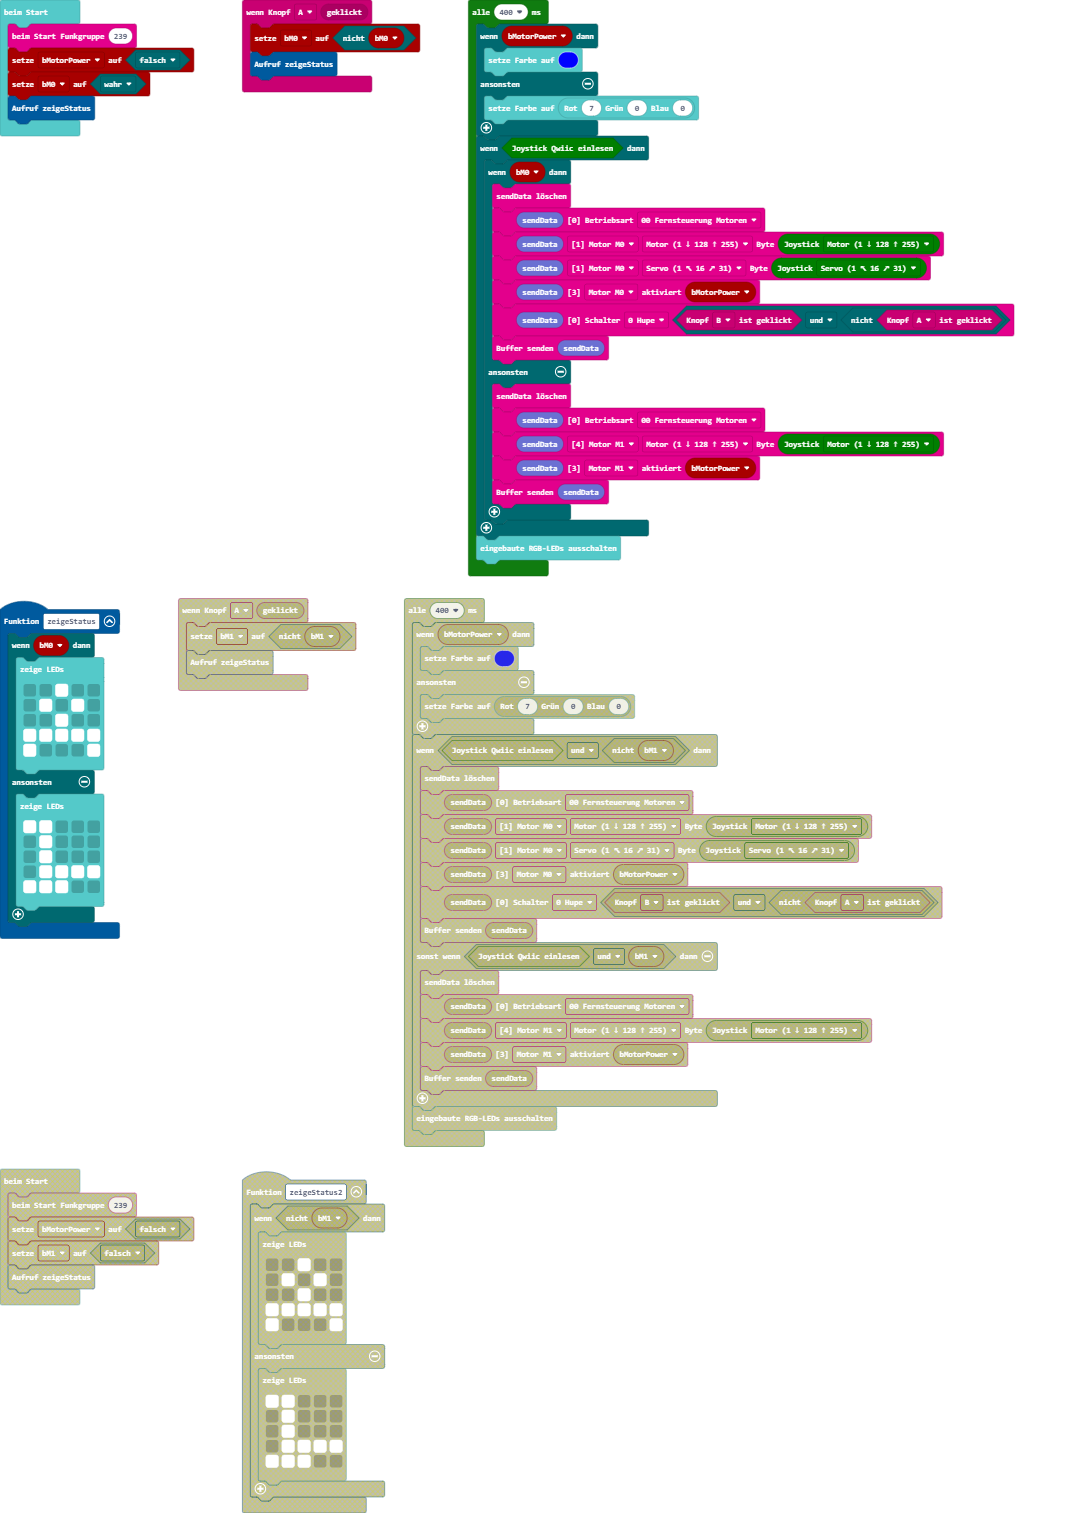
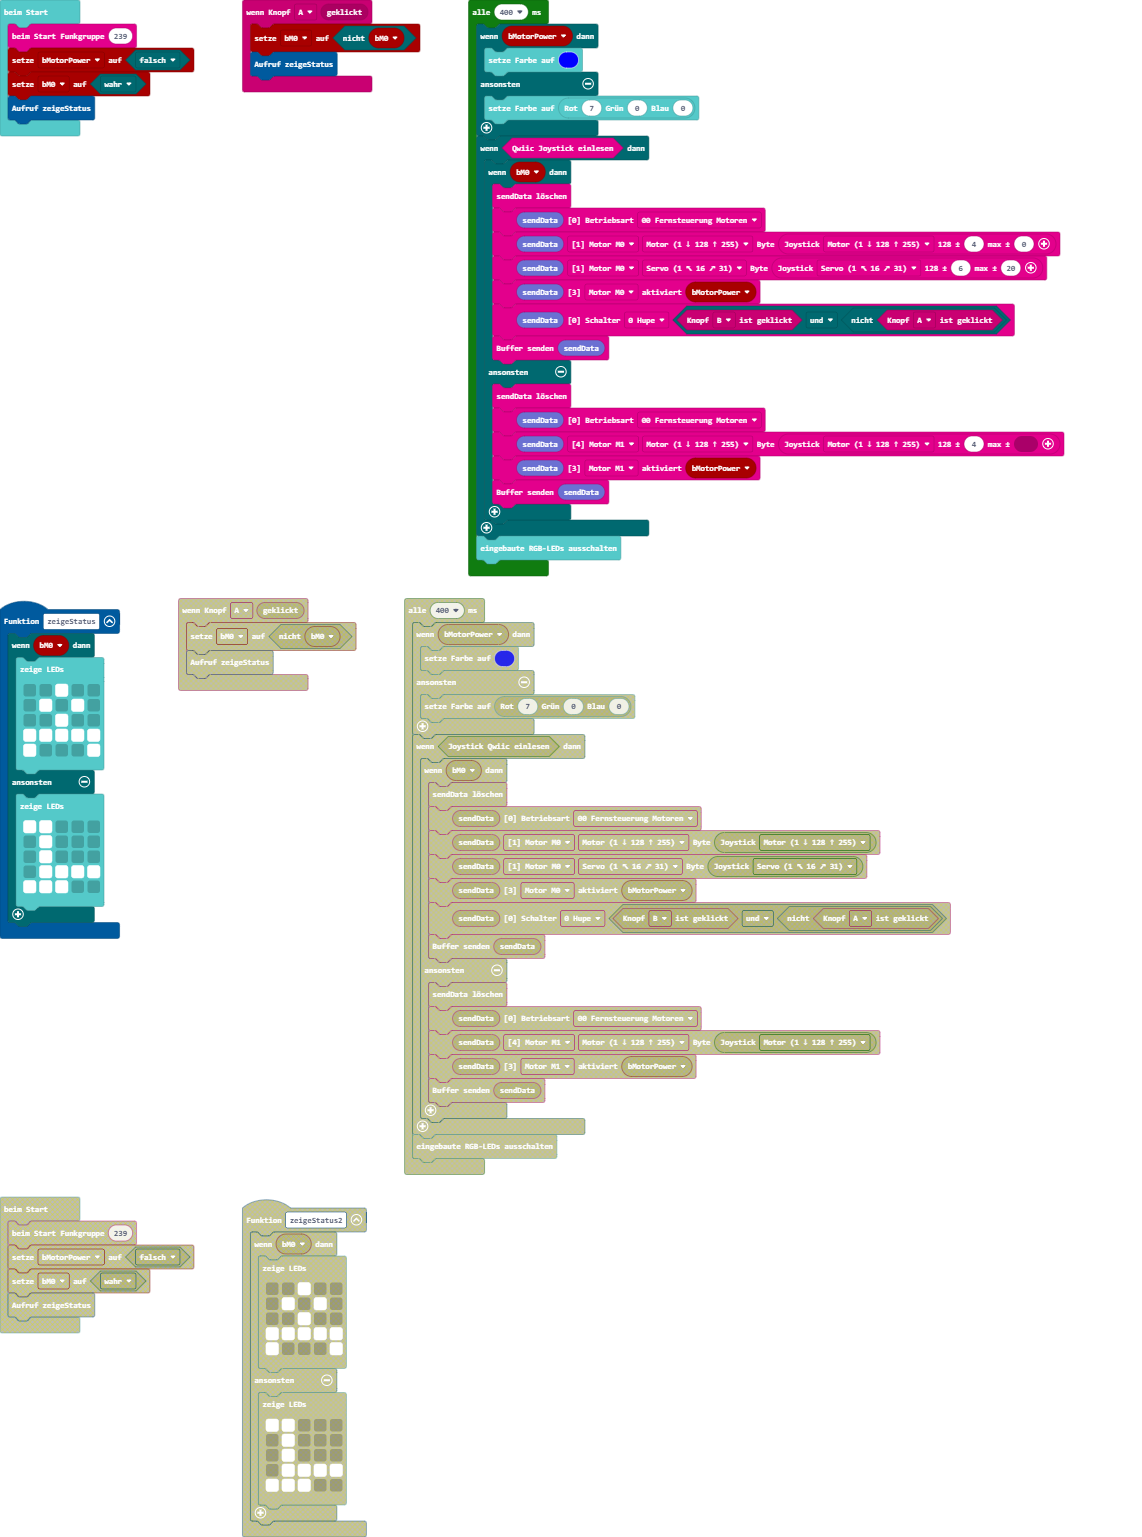
Aktualisiere pxt.json, main.blocks, main.ts

Changed region(s): [[0.0, 0.0, 0.9341, 1.0], [0.0, 0.3728, 0.1245, 0.6213]]

diff --git a/main.ts b/main.ts
@@ -36,19 +36,19 @@ loops.everyInterval(400, function () {
     } else {
         basic.setLedColor(basic.rgb(7, 0, 0))
     }
-    if (radiosender.joystickQwiic()) {
+    if (radio.joystickQwiic()) {
         if (bM0) {
             radio.fill_sendBuffer19()
             radio.setBetriebsart(radio.radio_sendBuffer19(), radio.e0Betriebsart.p0)
-            radio.setByte(radio.radio_sendBuffer19(), radio.eBufferPointer.m0, radio.eBufferOffset.b0_Motor, radiosender.joystickValues(radiosender.eJoystickValue.motor))
-            radio.setByte(radio.radio_sendBuffer19(), radio.eBufferPointer.m0, radio.eBufferOffset.b1_Servo, radiosender.joystickValues(radiosender.eJoystickValue.servo16))
+            radio.setByte(radio.radio_sendBuffer19(), radio.eBufferPointer.m0, radio.eBufferOffset.b0_Motor, radio.joystickValue(radio.eJoystickValue.motor, 4))
+            radio.setByte(radio.radio_sendBuffer19(), radio.eBufferPointer.m0, radio.eBufferOffset.b1_Servo, radio.joystickValue(radio.eJoystickValue.servo16, 6, 20))
             radio.setaktiviert(radio.radio_sendBuffer19(), radio.e3aktiviert.m0, bMotorPower)
             radio.setSchalter(radio.radio_sendBuffer19(), radio.e0Schalter.b0, input.buttonIsPressed(Button.B) && !(input.buttonIsPressed(Button.A)))
             radio.sendData(radio.radio_sendBuffer19())
         } else {
             radio.fill_sendBuffer19()
             radio.setBetriebsart(radio.radio_sendBuffer19(), radio.e0Betriebsart.p0)
-            radio.setByte(radio.radio_sendBuffer19(), radio.eBufferPointer.m1, radio.eBufferOffset.b0_Motor, radiosender.joystickValues(radiosender.eJoystickValue.motor))
+            radio.setByte(radio.radio_sendBuffer19(), radio.eBufferPointer.m1, radio.eBufferOffset.b0_Motor, radio.joystickValue(radio.eJoystickValue.motor, 4))
             radio.setaktiviert(radio.radio_sendBuffer19(), radio.e3aktiviert.m1, bMotorPower)
             radio.sendData(radio.radio_sendBuffer19())
         }
